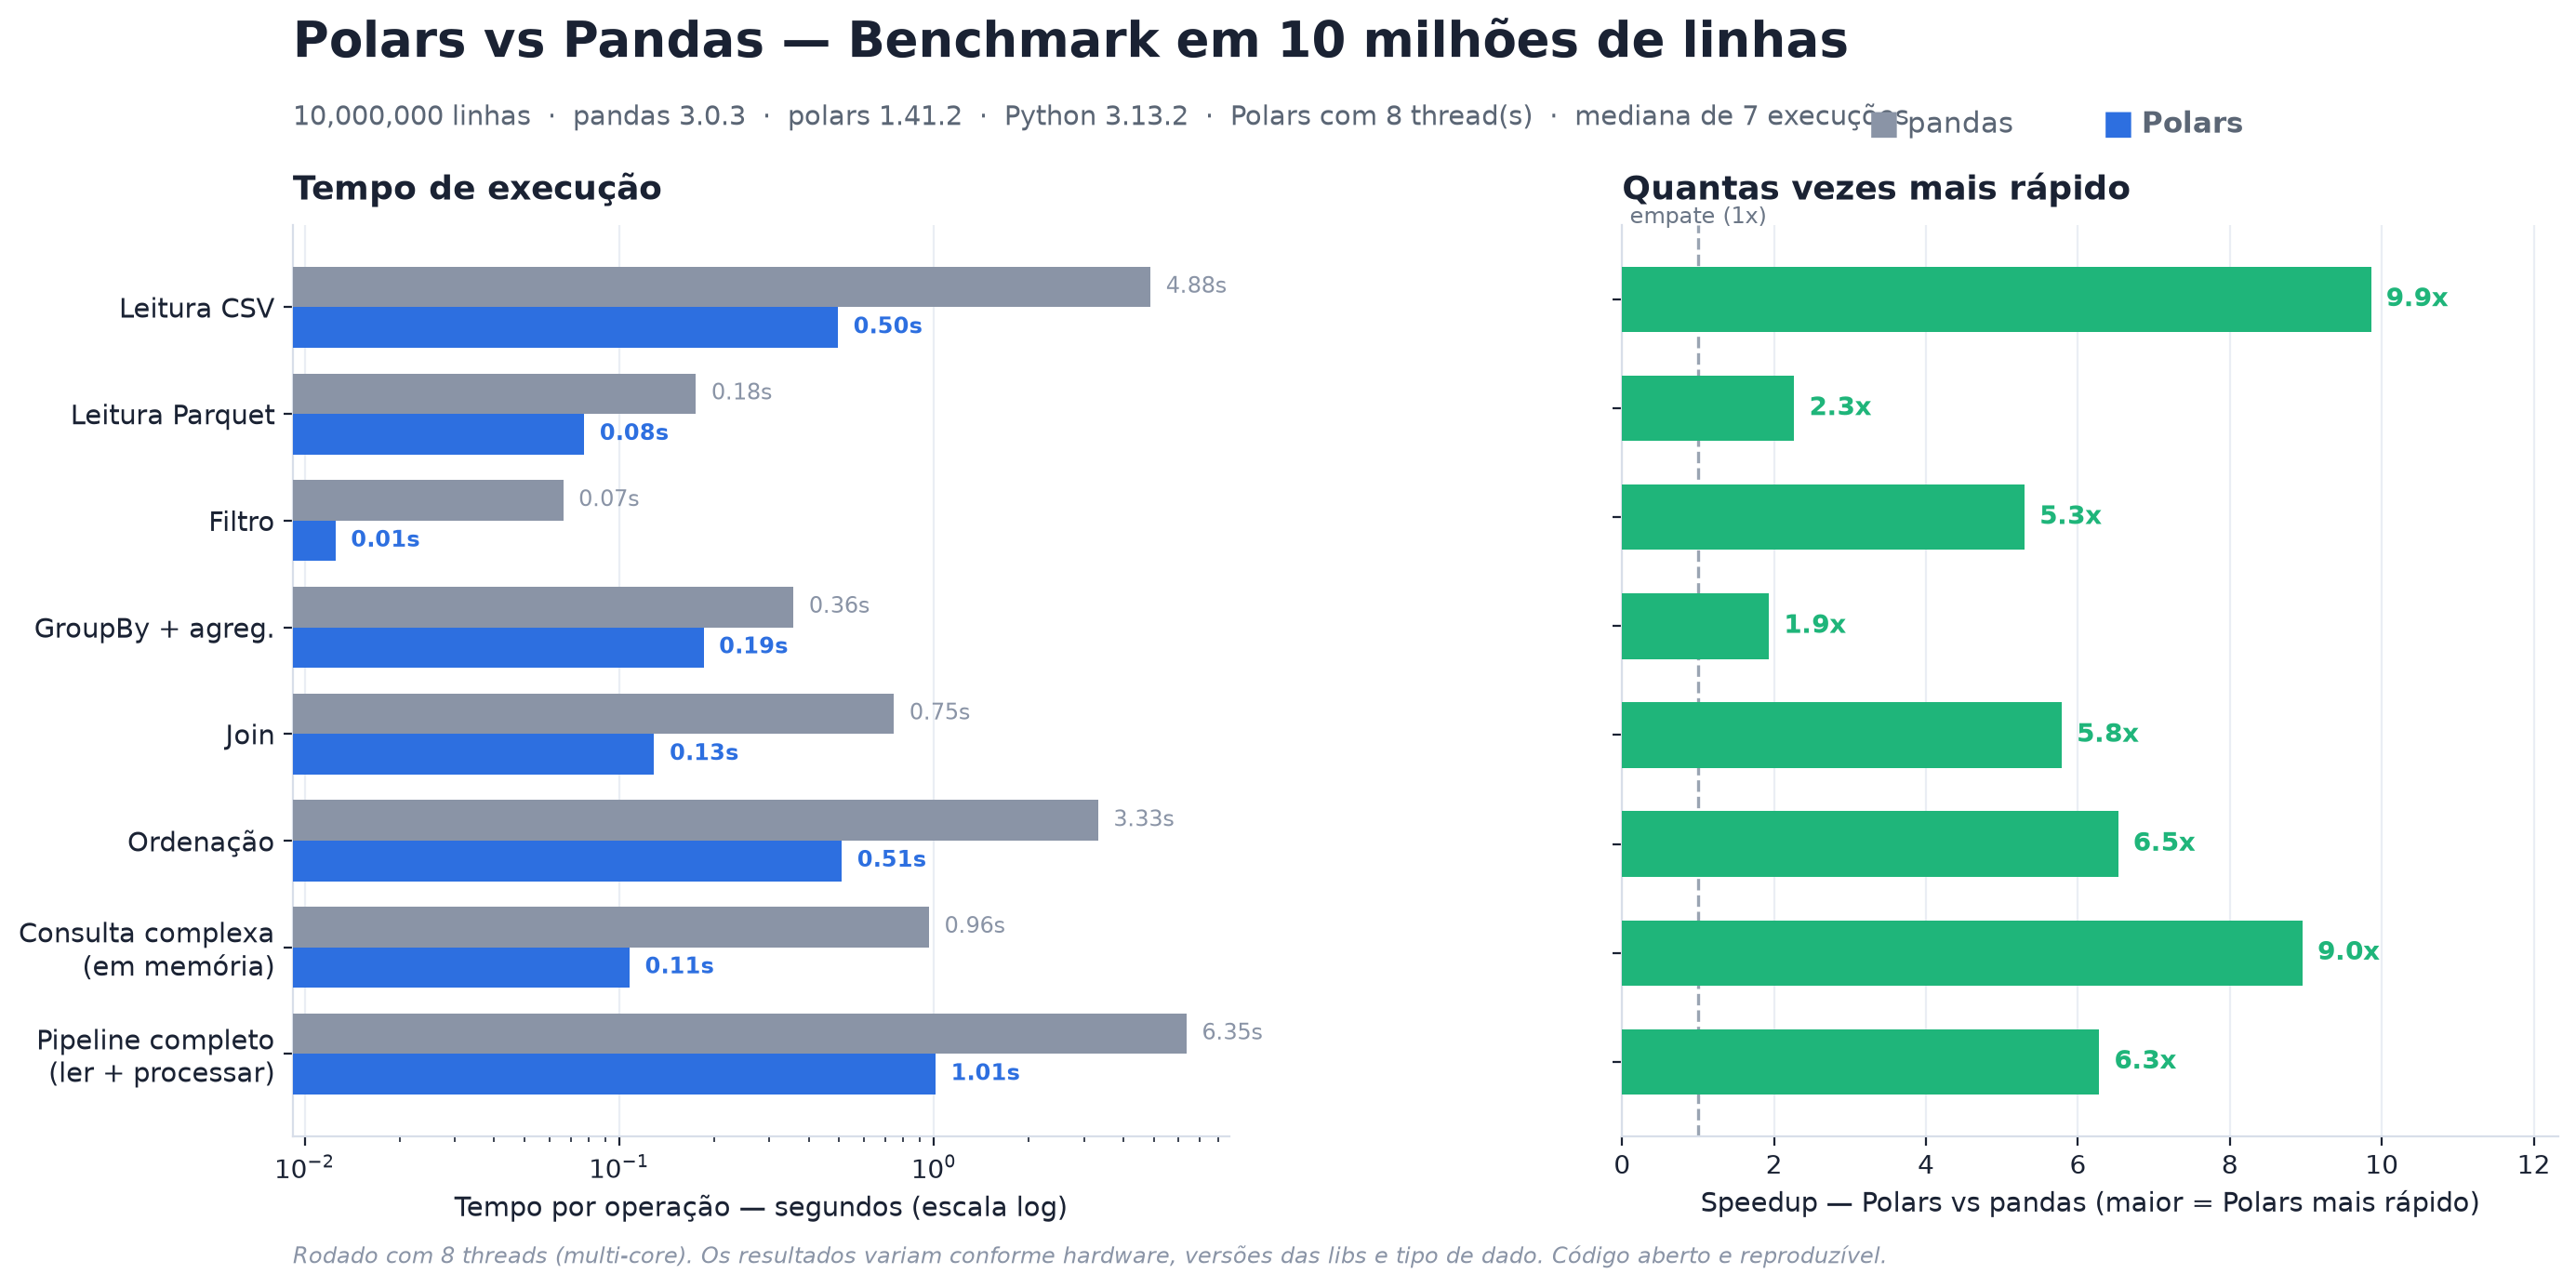
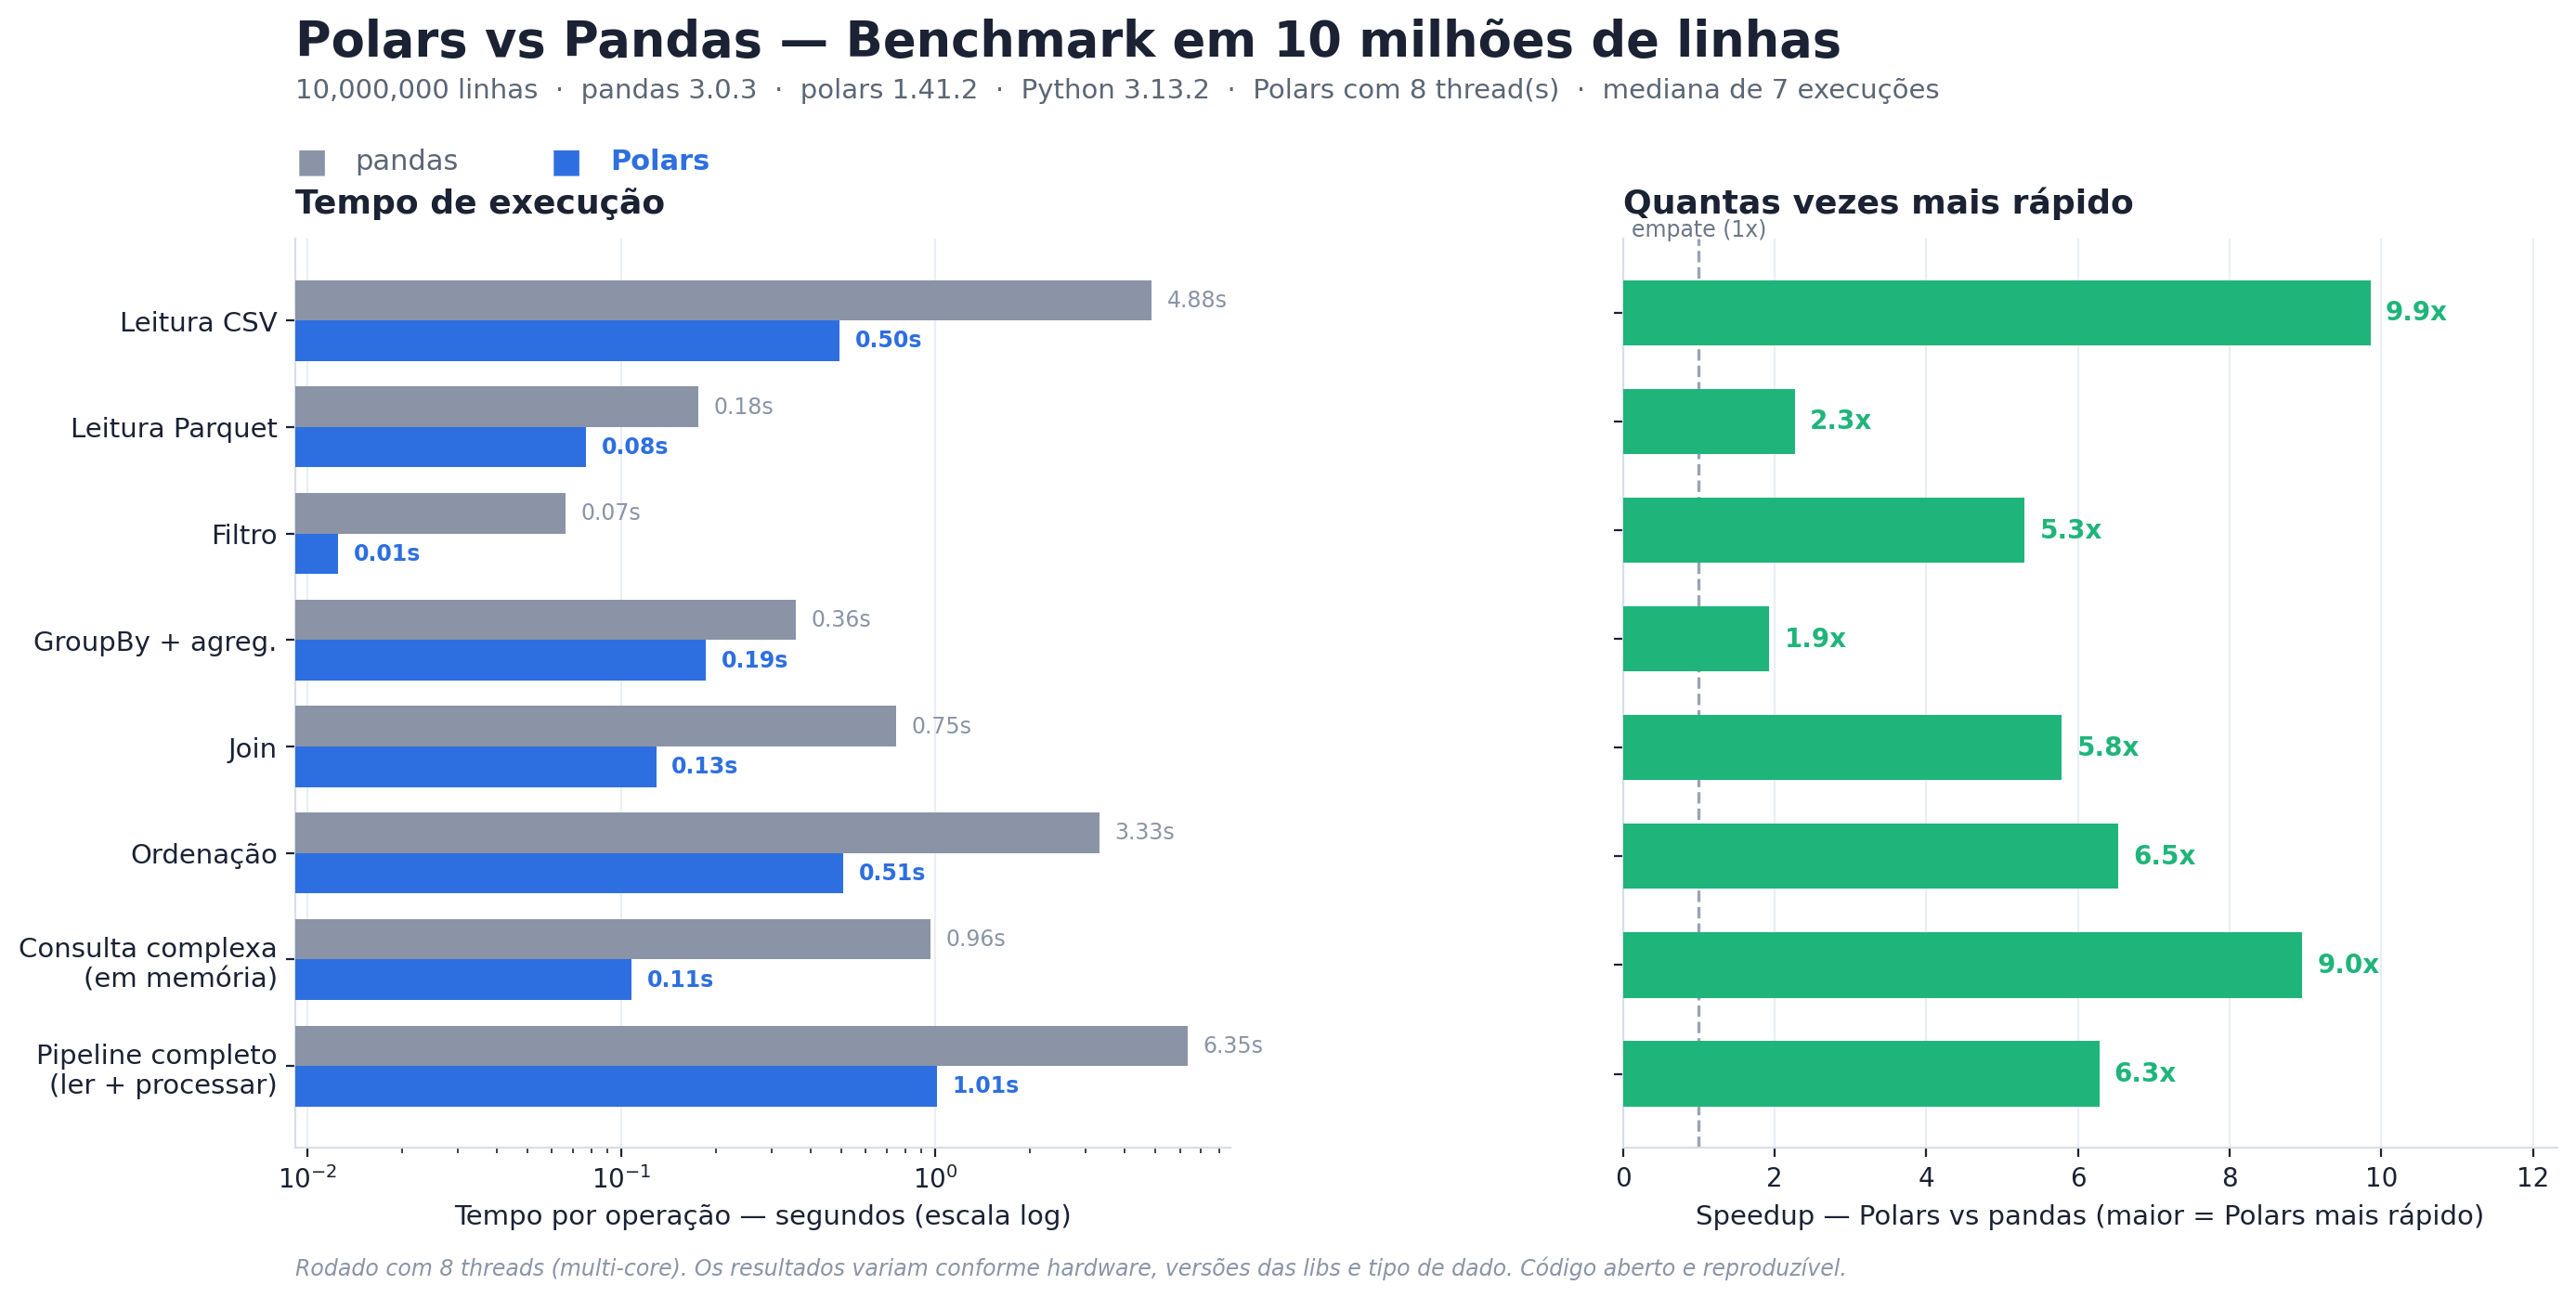
mudanca no benchmark

diff --git a/grafico.py b/grafico.py
@@ -80,17 +80,17 @@ for yi, s in zip(y, speedup):
 
 # --- Títulos gerais ---
 fig.suptitle("Polars vs Pandas — Benchmark em 10 milhões de linhas",
-             fontsize=19, fontweight="bold", x=0.10, ha="left", y=0.955)
+             fontsize=19, fontweight="bold", x=0.10, ha="left", y=0.965)
 subt = (f"{info['n_linhas']:,} linhas  ·  pandas {info['pandas']}  ·  "
         f"polars {info['polars']}  ·  Python {info['python']}  ·  "
         f"Polars com {n_threads} thread(s)  ·  mediana de {info['n_runs']} execuções")
-fig.text(0.10, 0.875, subt, fontsize=10.5, color="#5B6675", ha="left")
+fig.text(0.10, 0.905, subt, fontsize=10.5, color="#5B6675", ha="left")
 
-# Chave de cores (no lugar da legenda interna)
-fig.text(0.705, 0.875, "■", fontsize=13, color=COR_PANDAS, ha="left", va="center")
-fig.text(0.720, 0.875, "pandas", fontsize=11, color="#5B6675", ha="left", va="center")
-fig.text(0.795, 0.875, "■", fontsize=13, color=COR_POLARS, ha="left", va="center")
-fig.text(0.810, 0.875, "Polars", fontsize=11, color="#5B6675", ha="left", va="center",
+# Chave de cores em linha própria, abaixo do subtítulo (evita sobreposição)
+fig.text(0.10, 0.858, "■", fontsize=13, color=COR_PANDAS, ha="left", va="center")
+fig.text(0.123, 0.858, "pandas", fontsize=11, color="#5B6675", ha="left", va="center")
+fig.text(0.198, 0.858, "■", fontsize=13, color=COR_POLARS, ha="left", va="center")
+fig.text(0.221, 0.858, "Polars", fontsize=11, color=COR_POLARS, ha="left", va="center",
          fontweight="bold")
 
 if n_threads <= 1:

diff --git a/README.md b/README.md
@@ -1,16 +1,13 @@
 # 🐻❄️ Polars vs 🐼 Pandas — Benchmark Honesto
 
-Comparação de performance entre **Polars** e **Pandas** em operações comuns de
-um pipeline de dados, usando **10 milhões de linhas**. O objetivo não é "provar"
-que uma biblioteca é melhor, e sim **medir com método** e entender *por que* e
-*quando* cada uma vence.
+Comparação de performance entre **Polars** e **Pandas** em operações comuns de um
+pipeline de dados, com **10 milhões de linhas**, rodada em um **MacBook Air M2
+(8 núcleos)**. O objetivo não é "provar" que uma biblioteca é melhor, e sim
+**medir com método** e entender *por que* e *quando* cada uma vence.
 
 > Projeto nasceu de uma conversa com o Eduardo, que me apresentou o Polars. 🙏
 
-## 📊 Resultados
-
-_A tabela abaixo é atualizada automaticamente pelo `grafico.py` com os números da
-sua máquina. O exemplo inicial foi gerado em **1 thread** (subestima o Polars)._
+## 📊 Resultados (MacBook Air M2 · 8 threads)
 
 <!-- RESULTADOS_INICIO -->
 Rodado em **8 núcleo(s) de CPU** (Polars usando 8 thread(s)) · pandas 3.0.3 · polars 1.41.2 · Python 3.13.2 · 10,000,000 linhas · mediana de 7 execuções.
@@ -29,37 +26,45 @@ Rodado em **8 núcleo(s) de CPU** (Polars usando 8 thread(s)) · pandas 3.0.3 ·
 
 ![Benchmark](benchmark_polars_pandas.png)
 
-## 🔎 O que aprendi (a parte interessante)
+## 🔎 O que os números mostram
 
-- **Polars vence na maioria**, mas não em tudo. No `GroupBy` em 1 thread, o
-  pandas 3.0 empatou/ganhou — porque o maior trunfo do Polars é o **paralelismo
-  multi-core**, que some quando só há 1 thread.
-- **O modo `lazy` brilha no pipeline completo.** Com `scan_csv`, o otimizador faz
-  *predicate/projection pushdown*: lê só as colunas e linhas necessárias. Por isso
-  o pipeline "ler do disco + processar" é onde a diferença mais aparece.
+- **No M2 (8 núcleos), o Polars venceu todas as operações** — de **1.9x** (GroupBy)
+  a **~10x** (leitura de CSV e consulta complexa em memória).
+- **Os maiores ganhos foram em I/O e em operações pesadas:** leitura de CSV (9.9x),
+  consulta complexa em memória (9.0x), ordenação (6.5x), pipeline completo (6.3x)
+  e join (5.8x). São justamente as operações que mais se beneficiam de
+  **paralelismo + formato colunar Apache Arrow + engine em Rust**.
+- **O menor ganho foi o GroupBy (1.9x) — e isso é o detalhe mais revelador.**
+  Rodando a *mesma máquina* em **1 thread**, o pandas 3.0 chega a *empatar* no
+  GroupBy. Ou seja: boa parte da vantagem do Polars vem do **multi-core**, e o
+  GroupBy do pandas 3.0 é eficiente o bastante pra quase neutralizar a diferença
+  quando há só um núcleo.
+- **O modo `lazy` é o trunfo do pipeline.** Com `scan_csv`, o otimizador faz
+  *predicate/projection pushdown* (lê só as colunas e linhas necessárias). Por isso
+  o "ler do disco + processar" rende 6.3x mesmo incluindo a leitura.
 - **Cuidado com benchmark injusto:** comparar Polars lazy (que inclui a leitura)
   contra pandas operando sobre dados já em memória dá um resultado enganoso. Aqui
   separei "em memória" de "pipeline completo".
 
-## ⚖️ Single-thread vs multi-core: o experimento mais honesto
+## ⚖️ Single-thread vs multi-core: a comparação honesta
 
-A crítica nº 1 desse tipo de comparação é *"Polars só ganha porque usa todos os
-núcleos"*. Dá pra responder isso com dado, na **mesma máquina**, rodando duas vezes:
+A crítica nº 1 desse tipo de benchmark é *"Polars só ganha porque usa todos os
+núcleos"*. Dá pra responder com dado, na **mesma máquina**, rodando duas vezes:
 
 ```bash
-# 1 thread (neutraliza o paralelismo)
+# 1 thread (neutraliza o paralelismo) — o GroupBy do pandas chega a empatar
 POLARS_MAX_THREADS=1 python benchmark.py && python grafico.py
-# renomeie o resultado, ex: cp benchmark_polars_pandas.png bench_1thread.png
+cp benchmark_polars_pandas.png bench_1thread.png
 
-# todos os núcleos (ex.: 8 no MacBook Air M2)
+# todos os núcleos (8 no MacBook Air M2) — o Polars dispara
 python benchmark.py && python grafico.py
-# cp benchmark_polars_pandas.png bench_multicore.png
+cp benchmark_polars_pandas.png bench_multicore.png
 ```
 
 > As duas execuções sobrescrevem `resultados.json` / `.png`. Renomeie entre elas
-> se quiser guardar os dois gráficos.
+> para guardar os dois gráficos.
 
-## ▶️ Como rodar (no seu Mac — M2/Apple Silicon)
+## ▶️ Como rodar (Mac — Apple Silicon)
 
 ```bash
 # 1) entre na pasta do projeto
@@ -77,10 +82,9 @@ python benchmark.py
 python grafico.py
 ```
 
-O M2 tem 8 núcleos e o Polars usa todos por padrão — espere speedups maiores
-que os do exemplo em `groupby`, `join` e `sort`. O `grafico.py` atualiza a tabela
-de resultados acima automaticamente. Ajuste `N_ROWS` no topo de `benchmark.py`
-se quiser testar outros volumes.
+O `grafico.py` atualiza a tabela de resultados acima automaticamente com os
+números da execução. Ajuste `N_ROWS` no topo de `benchmark.py` para testar outros
+volumes.
 
 ## 🚀 Como publicar no GitHub
 
@@ -93,7 +97,7 @@ se quiser testar outros volumes.
 # uma vez só: gh auth login
 git init
 git add .
-git commit -m "Benchmark Polars vs Pandas em 10M de linhas"
+git commit -m "Benchmark Polars vs Pandas em 10M de linhas (MacBook Air M2)"
 gh repo create benchmark-polars-pandas --public --source=. --push
 ```
 
@@ -104,7 +108,7 @@ gh repo create benchmark-polars-pandas --public --source=. --push
 # 2) na pasta do projeto:
 git init
 git add .
-git commit -m "Benchmark Polars vs Pandas em 10M de linhas"
+git commit -m "Benchmark Polars vs Pandas em 10M de linhas (MacBook Air M2)"
 git branch -M main
 git remote add origin https://github.com/SEU_USUARIO/benchmark-polars-pandas.git
 git push -u origin main
@@ -116,6 +120,7 @@ git push -u origin main
 - **Warm-up** (2 execuções descartadas) + **mediana de 7 execuções** (robusta a outliers).
 - Dados sintéticos com `seed` fixa (reprodutível).
 - Comparação de leitura em **CSV e Parquet**, e de **eager vs lazy**.
+- Ambiente: MacBook Air M2 (8 núcleos) · macOS · pandas 3.0.3 · polars 1.41.2 · Python 3.13.2.
 
 ## 📦 Estrutura
 